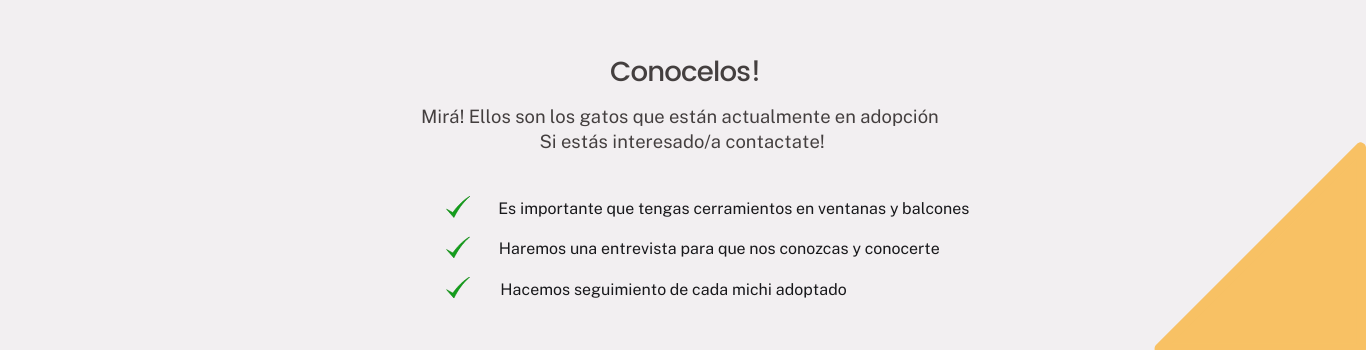
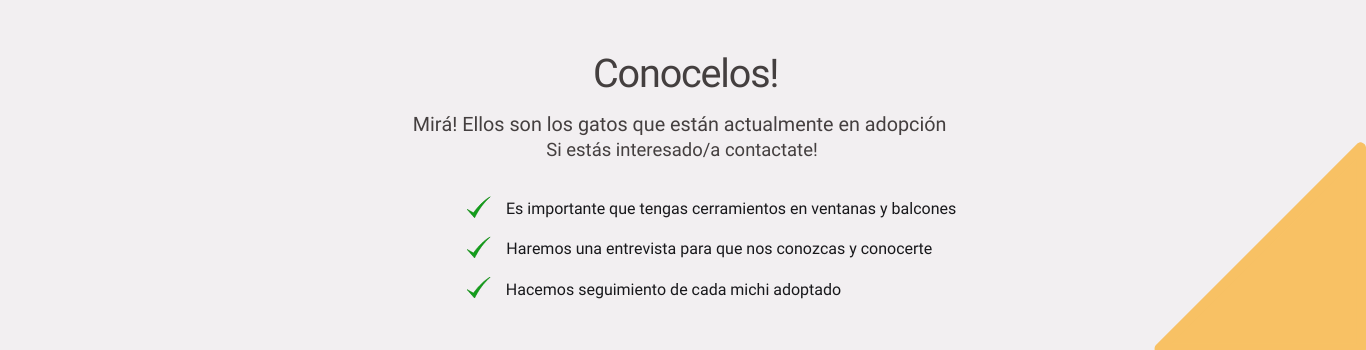
se modifica estilo de tipografia

diff --git a/src/Presentacion.js b/src/Presentacion.js
@@ -21,7 +21,7 @@ function Presentacion ()
       <img src="cat1.jpg" class="card-img-top" alt="..."/>
       <div class="card-body">
         <h4 class="card-title text-center display-3 text-muted fs-1" ><strong>Adopciones </strong></h4>
-        <p class="card-text fs-4 mt-4 mb-4 text-center">Podes conocer nuestros michis en adopcion.Ellos necesitan de un hogar lleno de cariño y comodidades!</p>
+        <p class="card-text fs-4 mt-4 mb-4 text-center"> Conocé a todos nuestros michis en adopción. Ellos necesitan de un hogar lleno de cariño donde vivan felices!</p>
         <div class="text-center">
         <button type="button" className=" boton btn btn-warning btn-lg mt-2">Quiero adoptar!</button>
       </div>
@@ -38,7 +38,7 @@ function Presentacion ()
       <img src="cat3.jpg" class="card-img-top" alt="..."/>
       <div class="card-body">
         <h5 class="card-title text-center  display-4 h1 text-muted fs-1"><strong>Voluntariado</strong></h5>
-        <p class="card-text fs-4 mt-4 mb-4 text-center">Podes ayudarnos en el refugio de distintas formas: alimentando, aseando y dando cariño. No olvides que ellos te necesitan!</p>
+        <p class="card-text fs-4 mt-4 mb-4 text-center">Colaborá con el refugio de distintas formas: alimentando, aseando y dando mucho cariño. &nbsp; No olvides que ellos te necesitan!</p>
         <div class="text-center">
         <button type="button" className=" boton btn btn-warning btn-lg mt-2">Quiero ser voluntario!</button>
       </div>

diff --git a/src/Styles/variables.scss b/src/Styles/variables.scss
@@ -1,10 +1,9 @@
 
-@import url('https://fonts.googleapis.com/css2?family=Poppins:wght@500&display=swap');
-
+@import url('https://fonts.googleapis.com/css2?family=Roboto&display=swap');
 $tamanoletraheader: 1.5rem;
 
 *{box-sizing: border-box !important;
-  font-family: 'Poppins', sans-serif !important;}
+  font-family: 'Roboto', sans-serif !important;}
 
 .nav-abath { 
    width: 100% !important;
@@ -94,10 +93,12 @@ box-sizing: border-box !important;}
 
 }
 
-.margintopapi{width: 100%;
-height: 100px;
-background-color: #f2eff1;}
+.margintop-api{width: 100%;
+height: 66px;
+background-color: #f2eff1;
+}
 .container-fluid {padding: 0px !important;}
+
 .boton {background-color: #f8c164 !important;
 border: none !important;
 color: black !important;}

diff --git a/src/Gatospropiedades.js b/src/Gatospropiedades.js
@@ -18,7 +18,7 @@ function Gatospropiedades(props) {
 
       <Modal show={show} onHide={handleClose}>
         <Modal.Header closeButton>
-          <Modal.Title>Caracteristicas</Modal.Title>
+          <Modal.Title>Características del michi</Modal.Title>
         </Modal.Header>
         <Modal.Body>
         

diff --git a/src/Api.js b/src/Api.js
@@ -38,7 +38,7 @@ function Api ()
     
 
    <div>
-<div className='margintopapi'></div>
+<div className='margintop-api'></div>
 <img className='fondoapi' src= "apifondo.png"></img>
 {
             spinner===null ? <div class="text-center spinnermargen">

diff --git a/src/Card1.js b/src/Card1.js
@@ -1,0 +1,17 @@
+function Card1(){
+
+
+return(
+
+<div>
+
+<img className="presentacion" src ="presentacion.png"/>
+
+</div>
+
+)
+
+
+}
+
+export default Card1;
